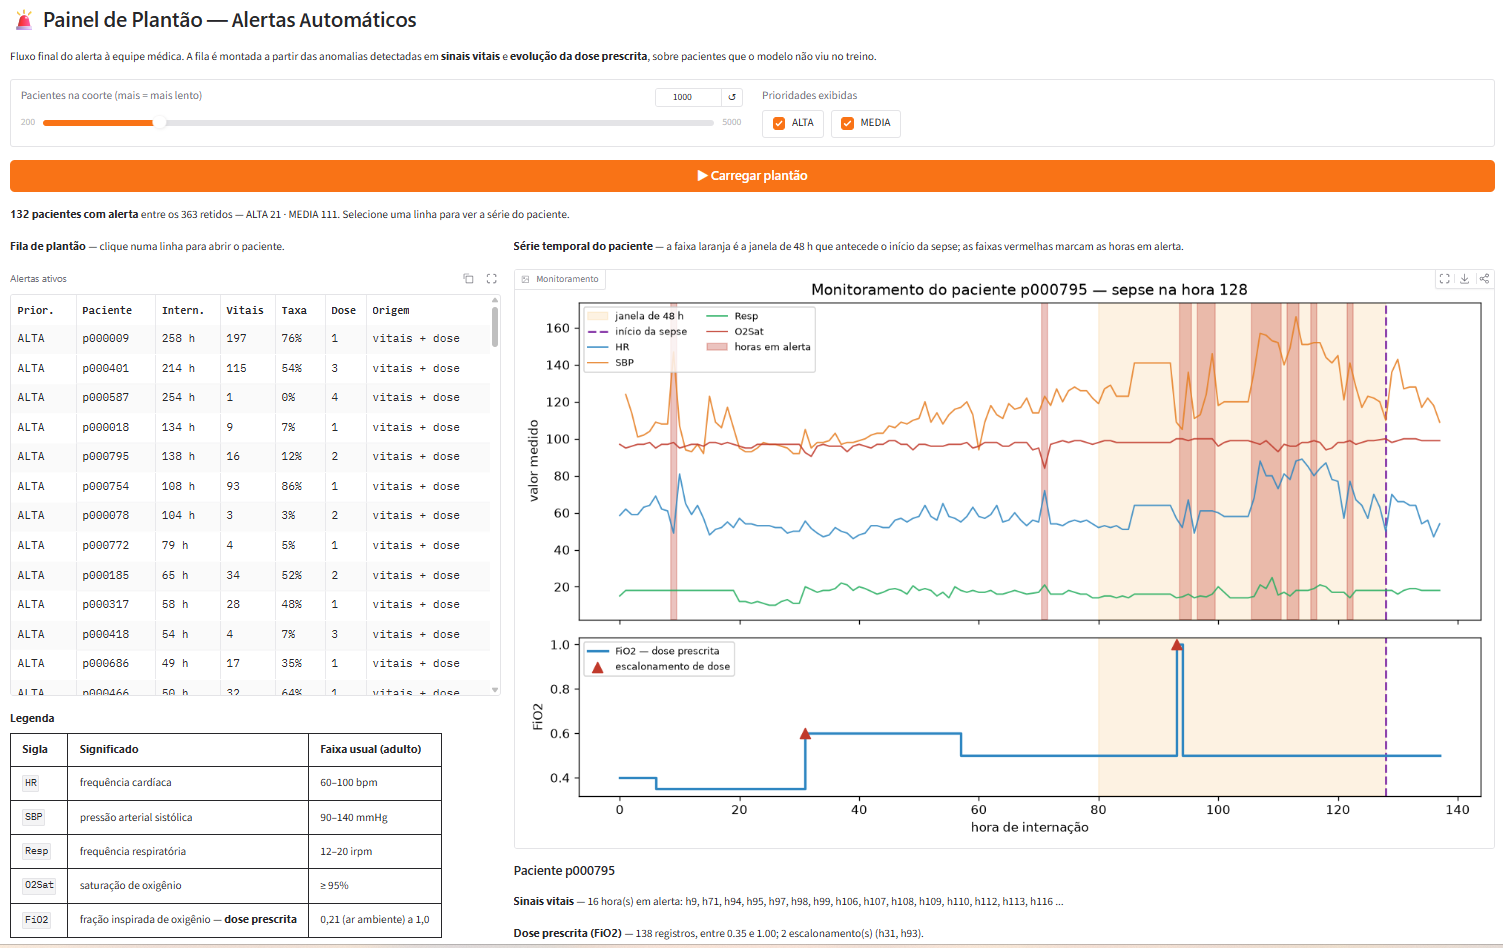
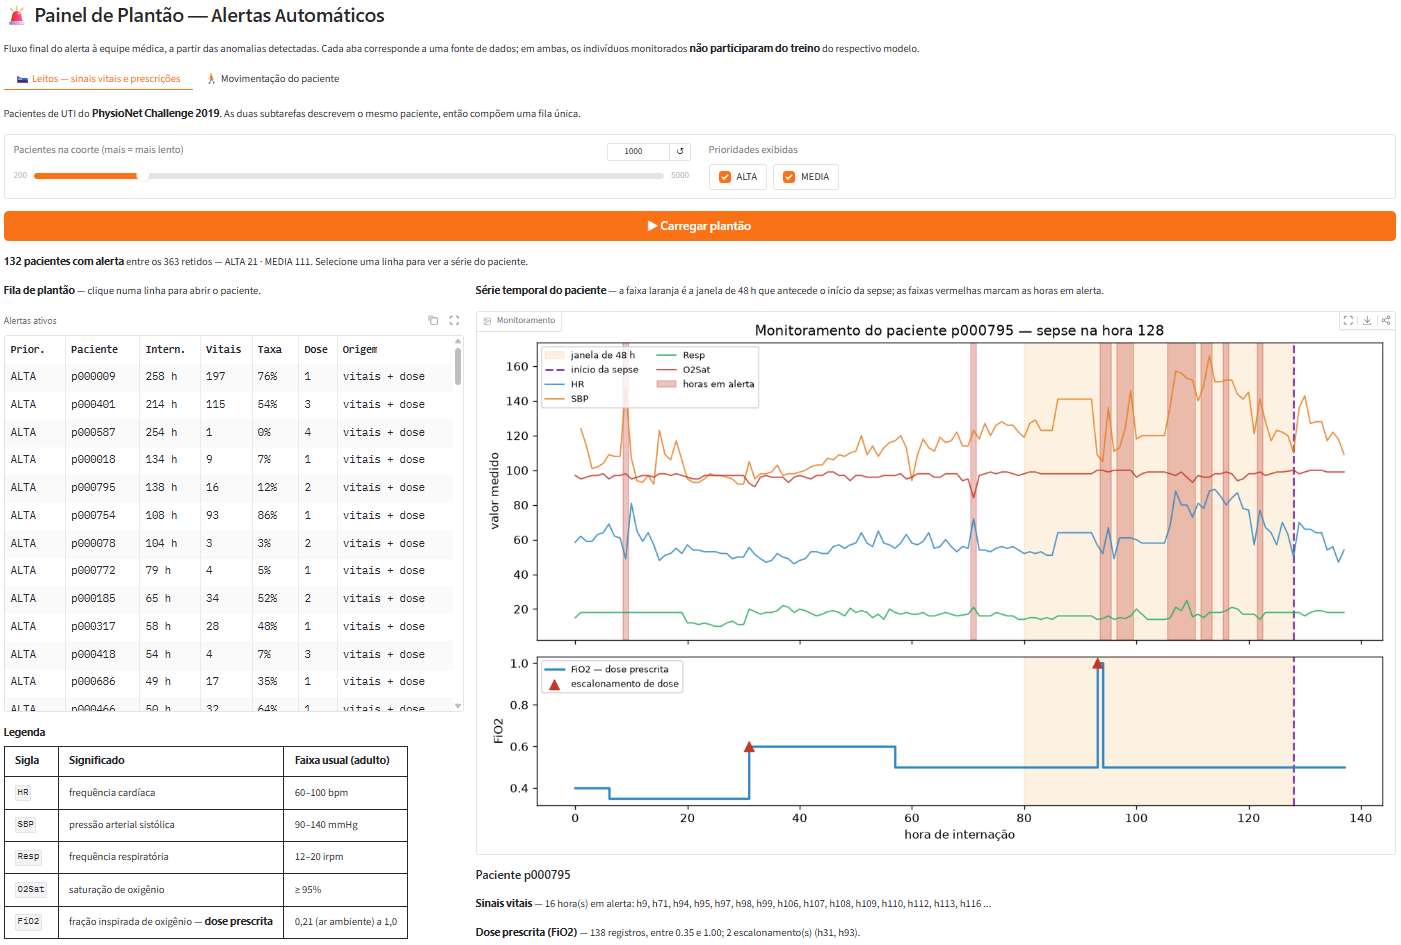
fix(anomalias): faixa contínua no painel de alerta da movimentação
O painel inferior desenhava barras de altura 0 ou 1 com o eixo rotulado
"sem alerta"/"ALERTA". Como toda barra parte de y=0, cada barra vermelha aparentava
abranger uma faixa entre os dois estados — que não significa nada. E as janelas sem
alerta desenhavam barra de altura zero, invisíveis.

Agora é uma faixa contínua, uma coluna por janela: vermelha se disparou, cinza se
não. A altura deixa de codificar qualquer coisa e só a cor informa, o que torna o
painel diretamente comparável ao de cima. Legenda própria abaixo do eixo.

Changed region(s): [[0.0, 0.0, 1.0, 1.0]]

diff --git a/src/anomaly/report.py b/src/anomaly/report.py
@@ -170,12 +170,20 @@ def plot_subject_timeline(res: pd.DataFrame, subject: int, out_path: str) -> str
                 loc="lower center", bbox_to_anchor=(0.5, 1.06), ncol=2, fontsize=8,
                 frameon=False)
 
-    # painel de baixo: o que o detector disparou
-    ax_b.bar(x, res["is_anomaly"], width=1.0, color="#c0392b", linewidth=0)
-    ax_b.set_yticks([0, 1])
-    ax_b.set_yticklabels(["sem alerta", "ALERTA"], fontsize=8)
-    ax_b.set_ylim(-0.1, 1.1)
+    # Painel de baixo: faixa contínua, uma coluna por janela — vermelha se o alerta
+    # disparou, cinza se não. A versão anterior desenhava barras de altura 0 ou 1 com o
+    # eixo rotulado "sem alerta"/"ALERTA", e cada barra parecia abranger uma faixa entre
+    # os dois estados. Aqui a altura não codifica nada: só a cor informa.
+    ax_b.bar(x, 1, width=1.0, linewidth=0,
+             color=["#c0392b" if a else "#dfe6e9" for a in res["is_anomaly"]])
+    ax_b.set_yticks([])
+    ax_b.set_ylim(0, 1)
+    ax_b.set_ylabel("alerta", fontsize=9)
     ax_b.set_xlabel("janela de leitura (ordem de aquisição)")
+    ax_b.legend(handles=[Patch(color="#c0392b", label="alerta disparado"),
+                         Patch(color="#dfe6e9", label="sem alerta")],
+                loc="lower center", bbox_to_anchor=(0.5, -0.85), ncol=2, fontsize=8,
+                frameon=False)
 
     fig.tight_layout()
     caminho = Path(out_path)
